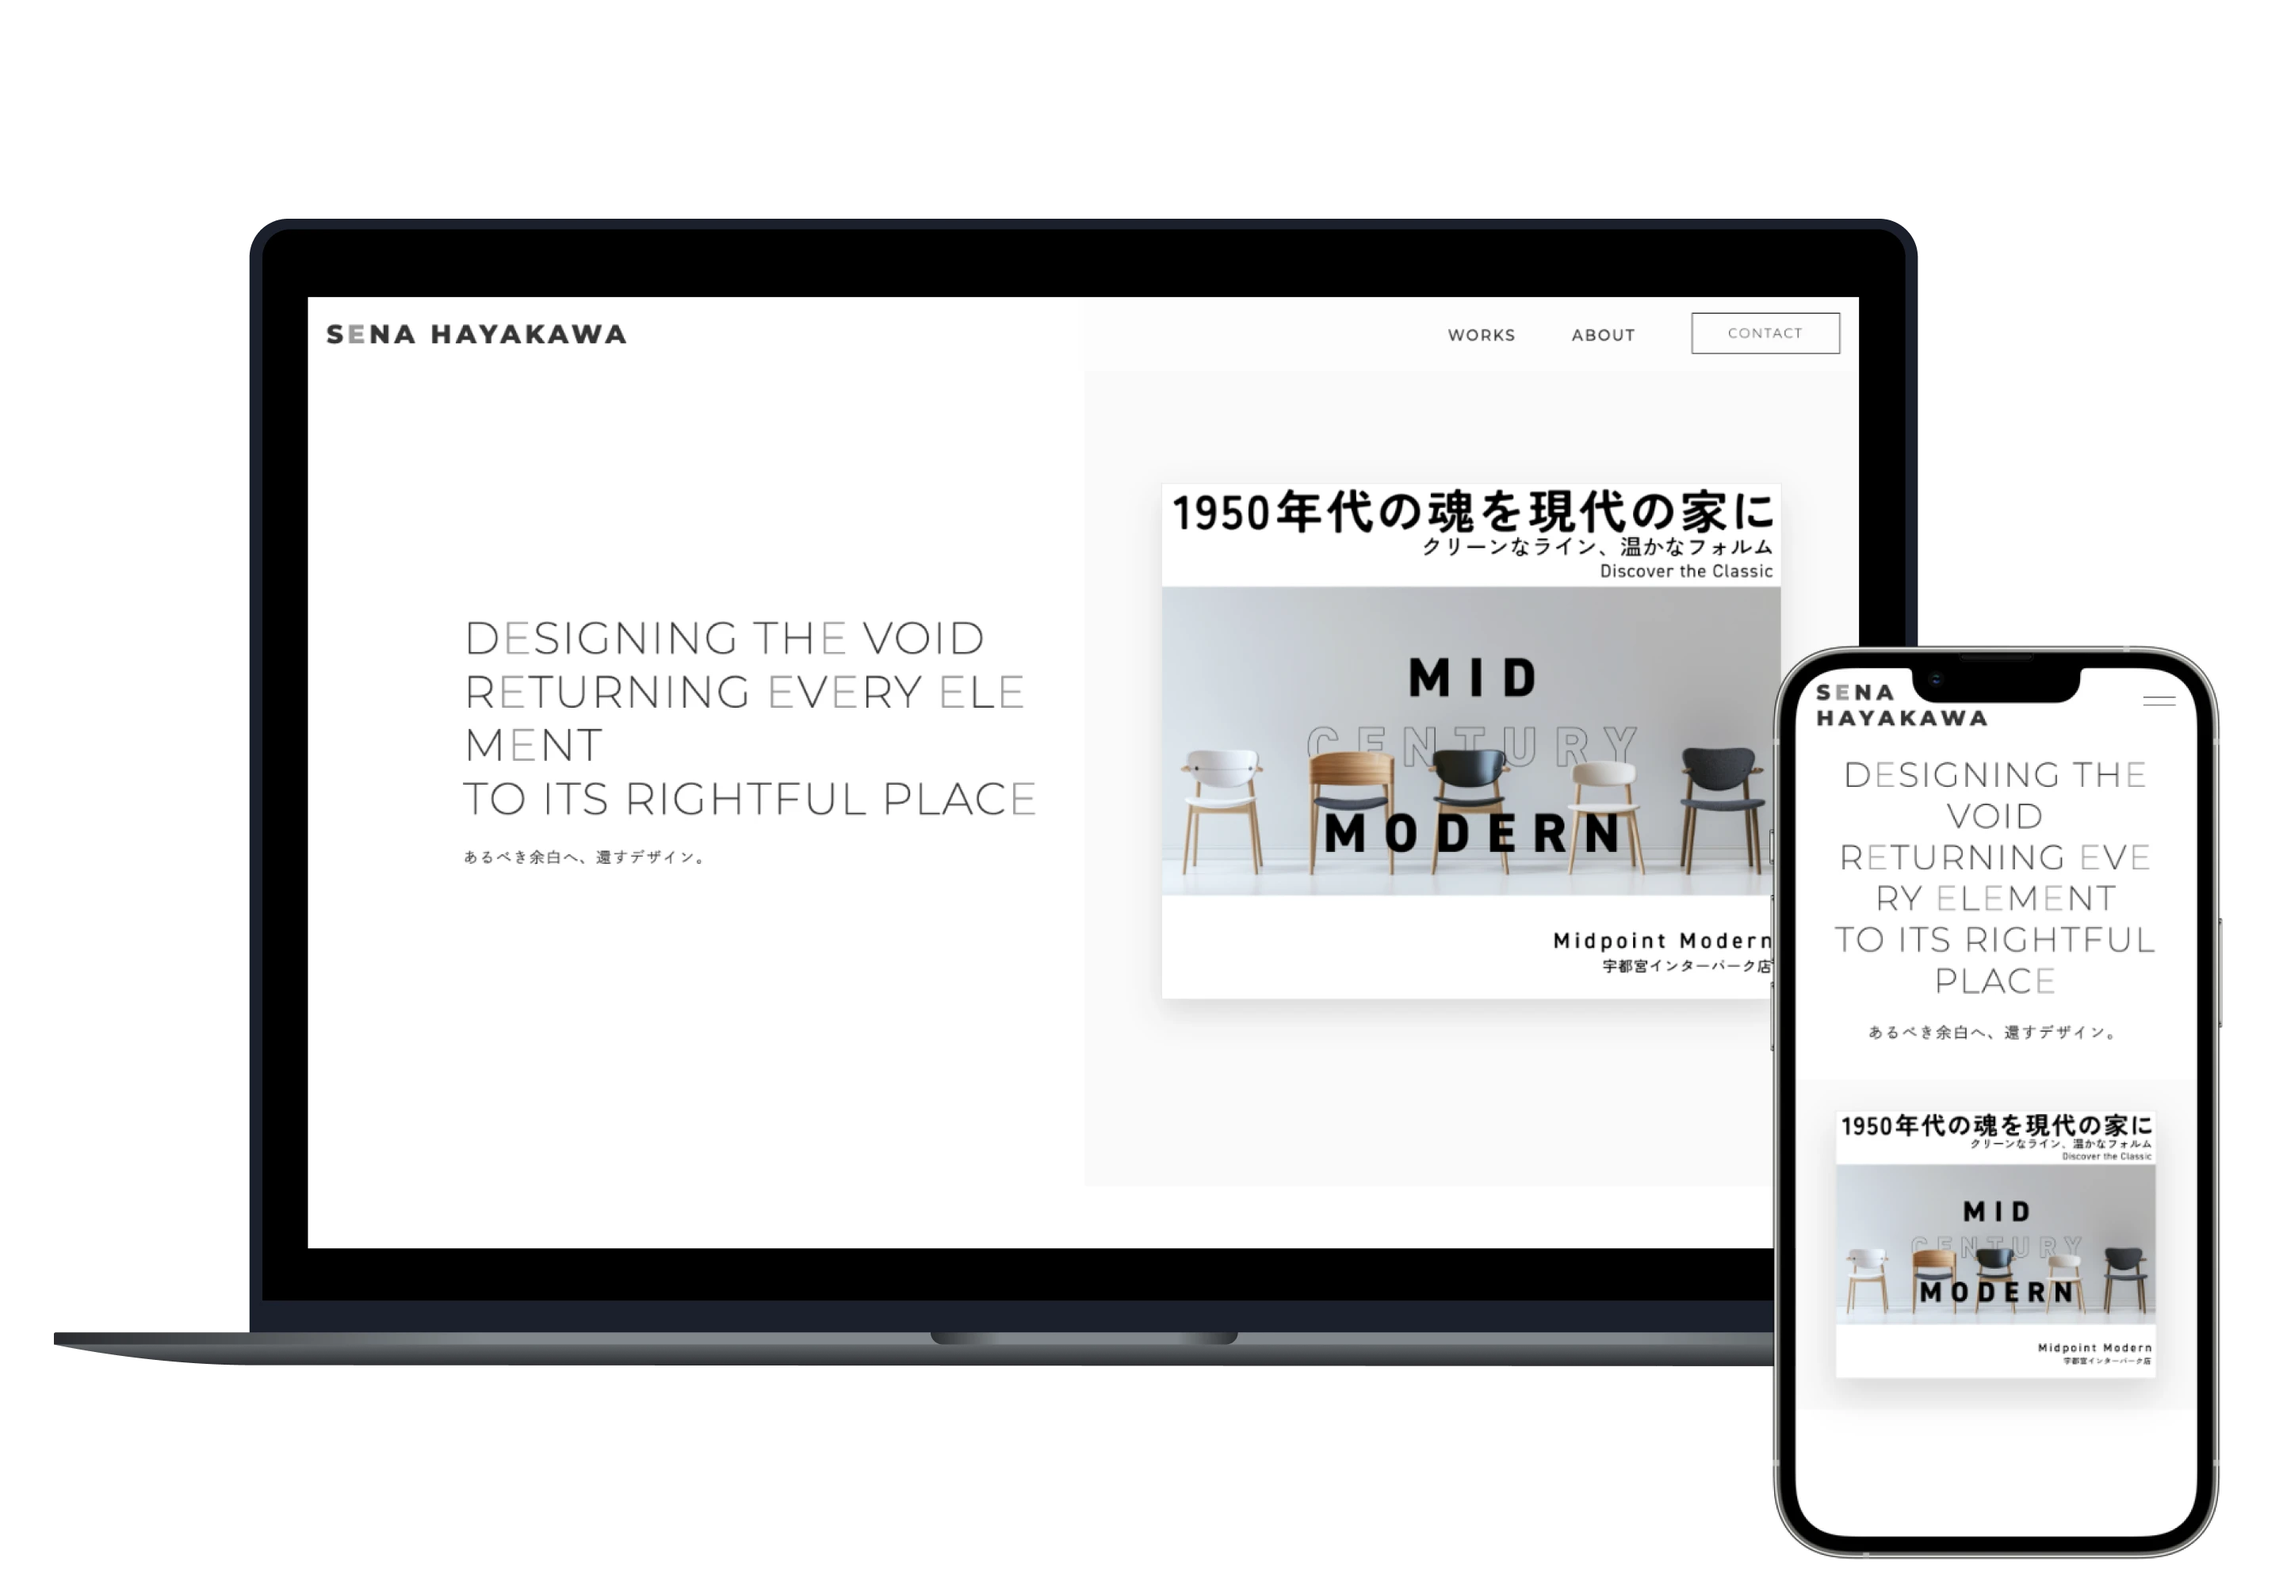
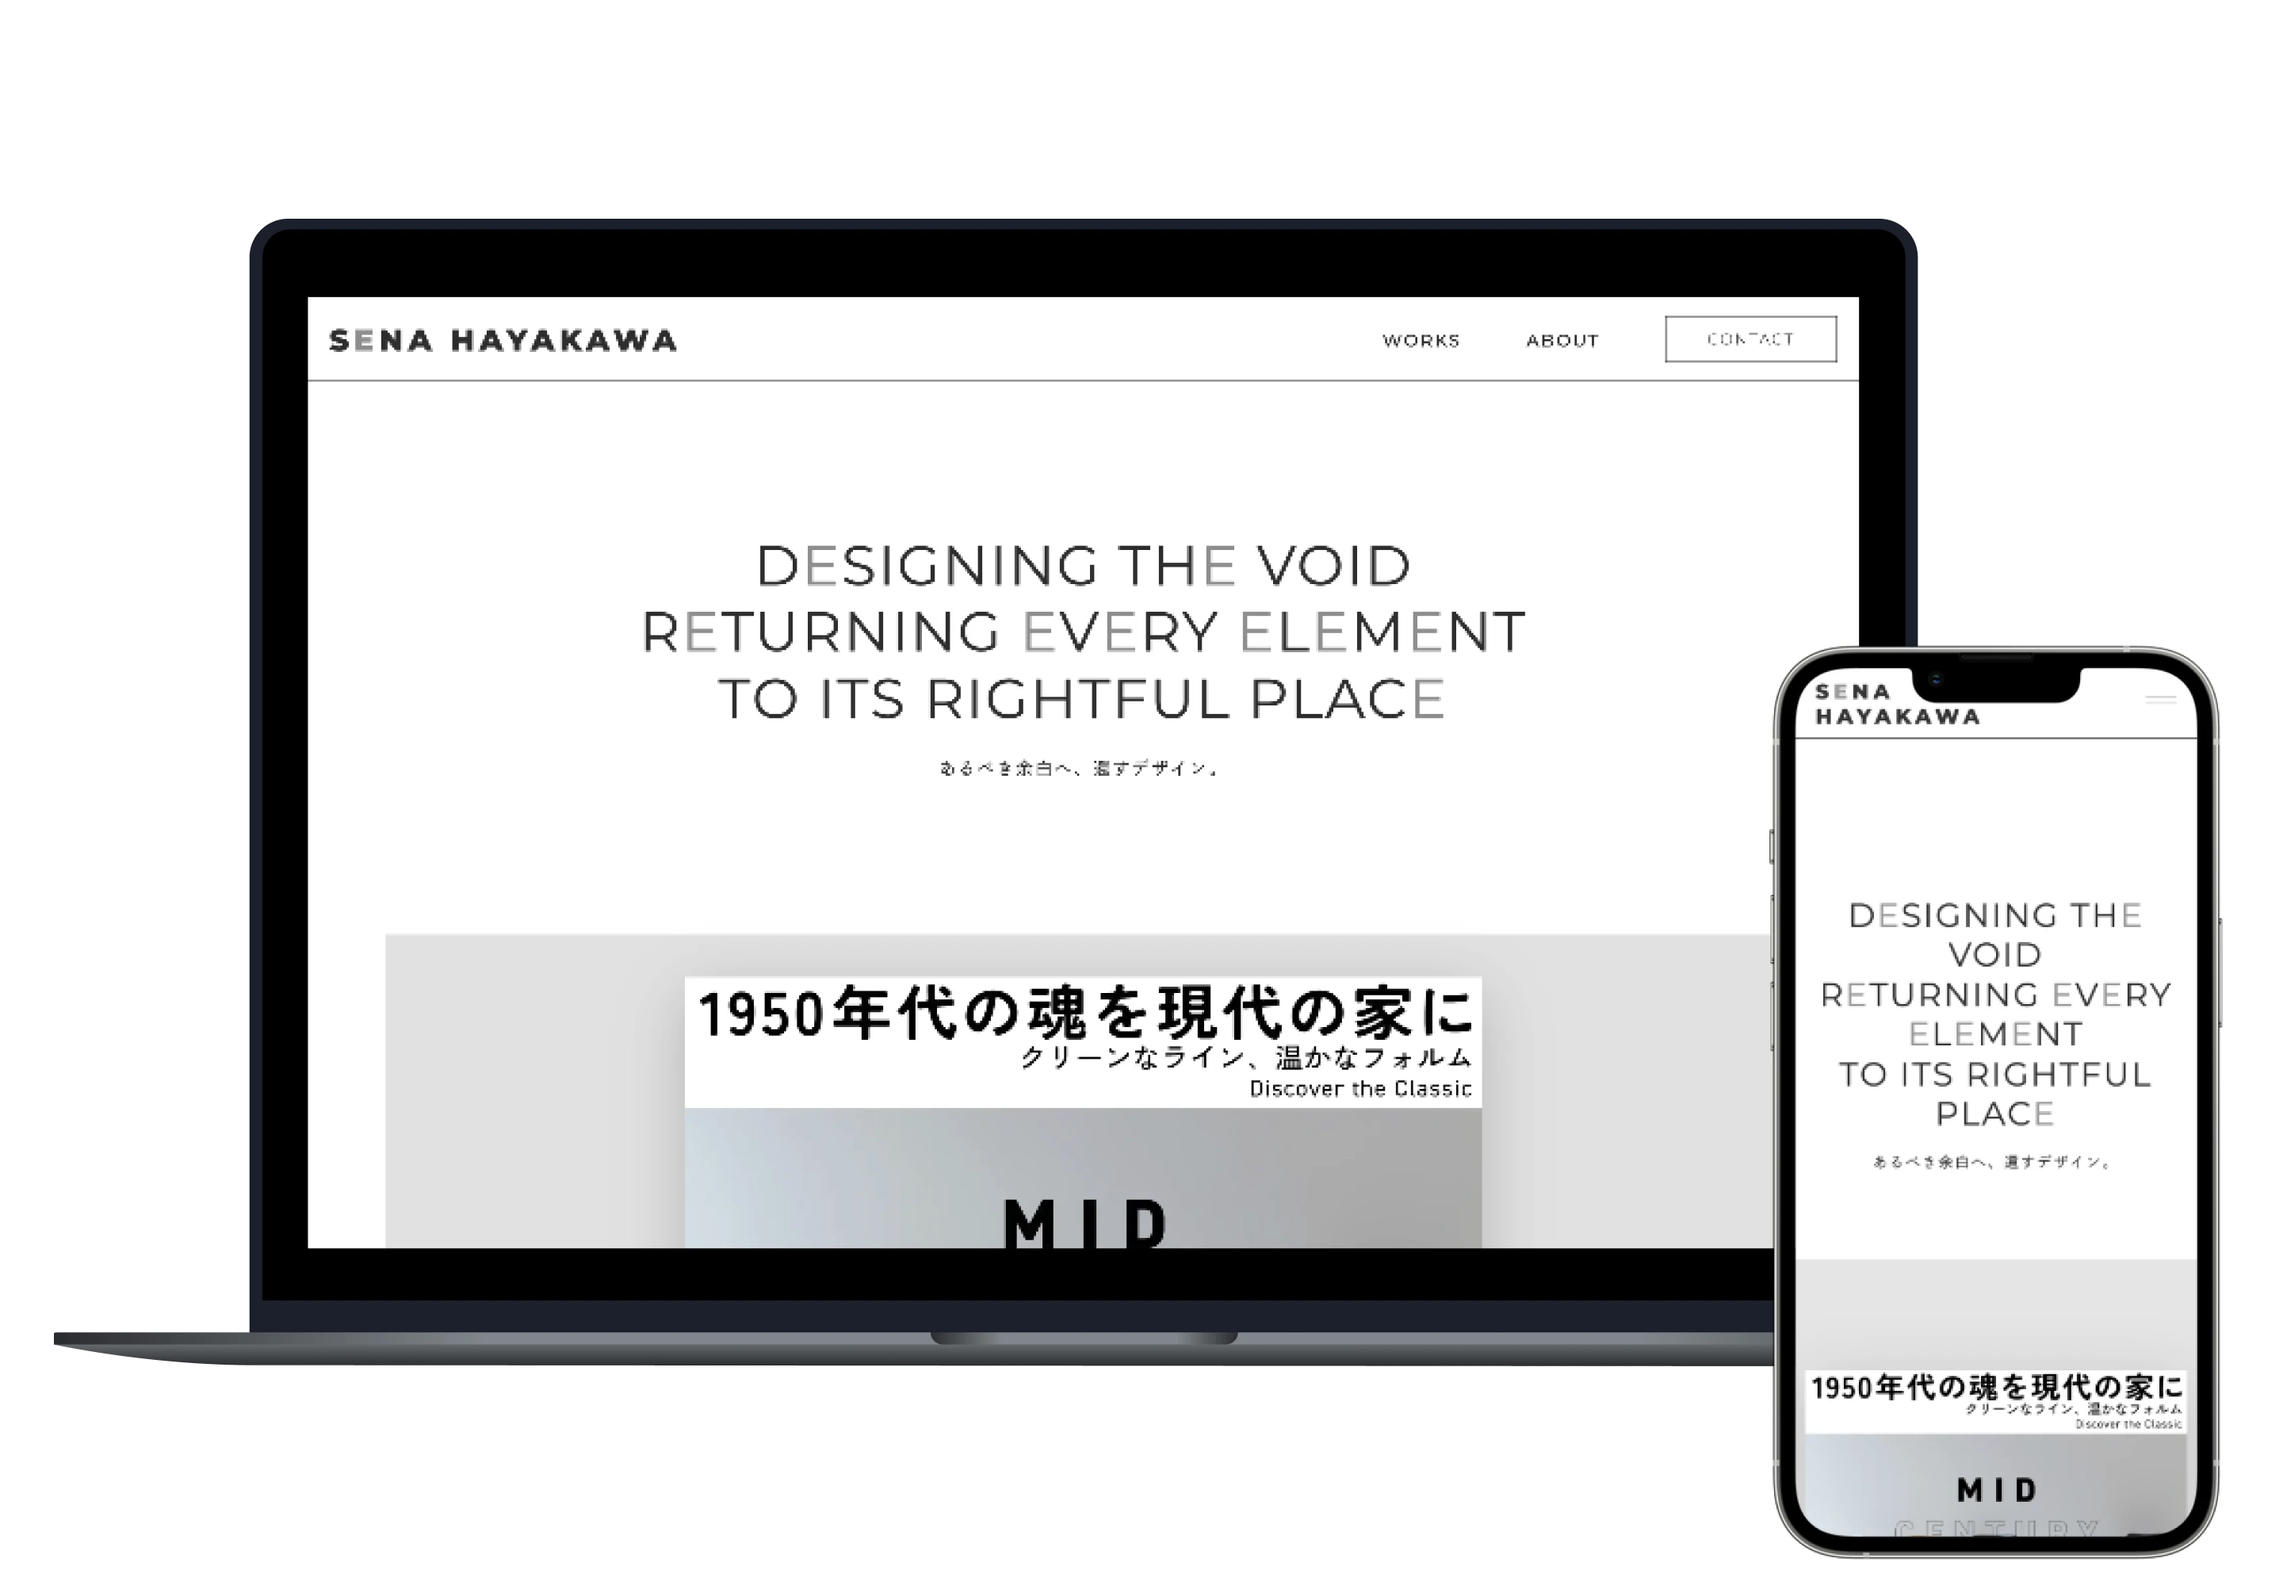
モックアップ差し替え

diff --git a/style.css b/style.css
@@ -252,7 +252,7 @@ a:hover {
 }
 
 .catchphrase h2 {
-    font-size: 52px;
+    font-size: 64px;
     font-weight: 400;
     line-height: 1.2;
     margin-bottom: 20px;
